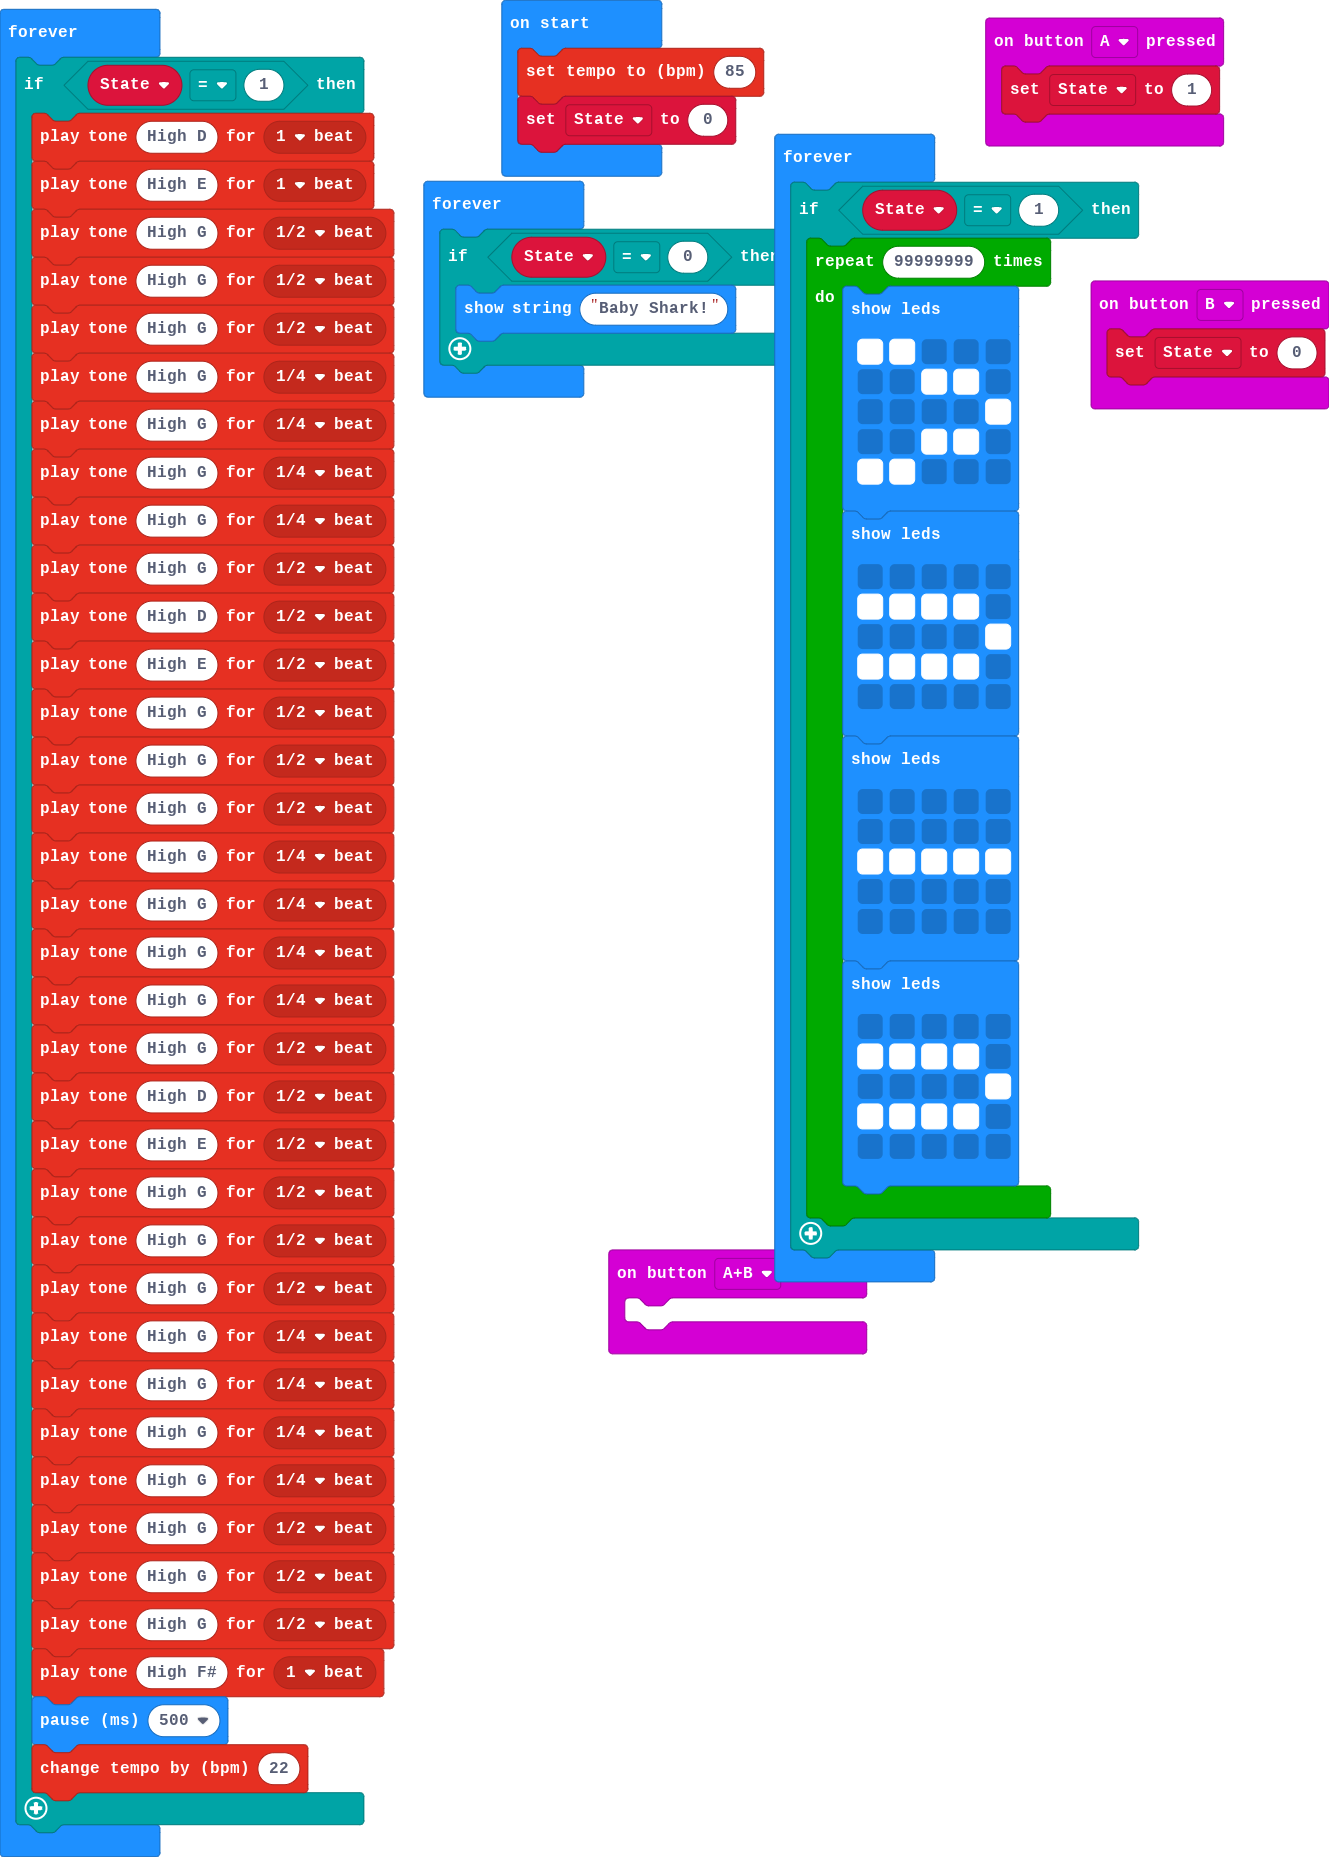
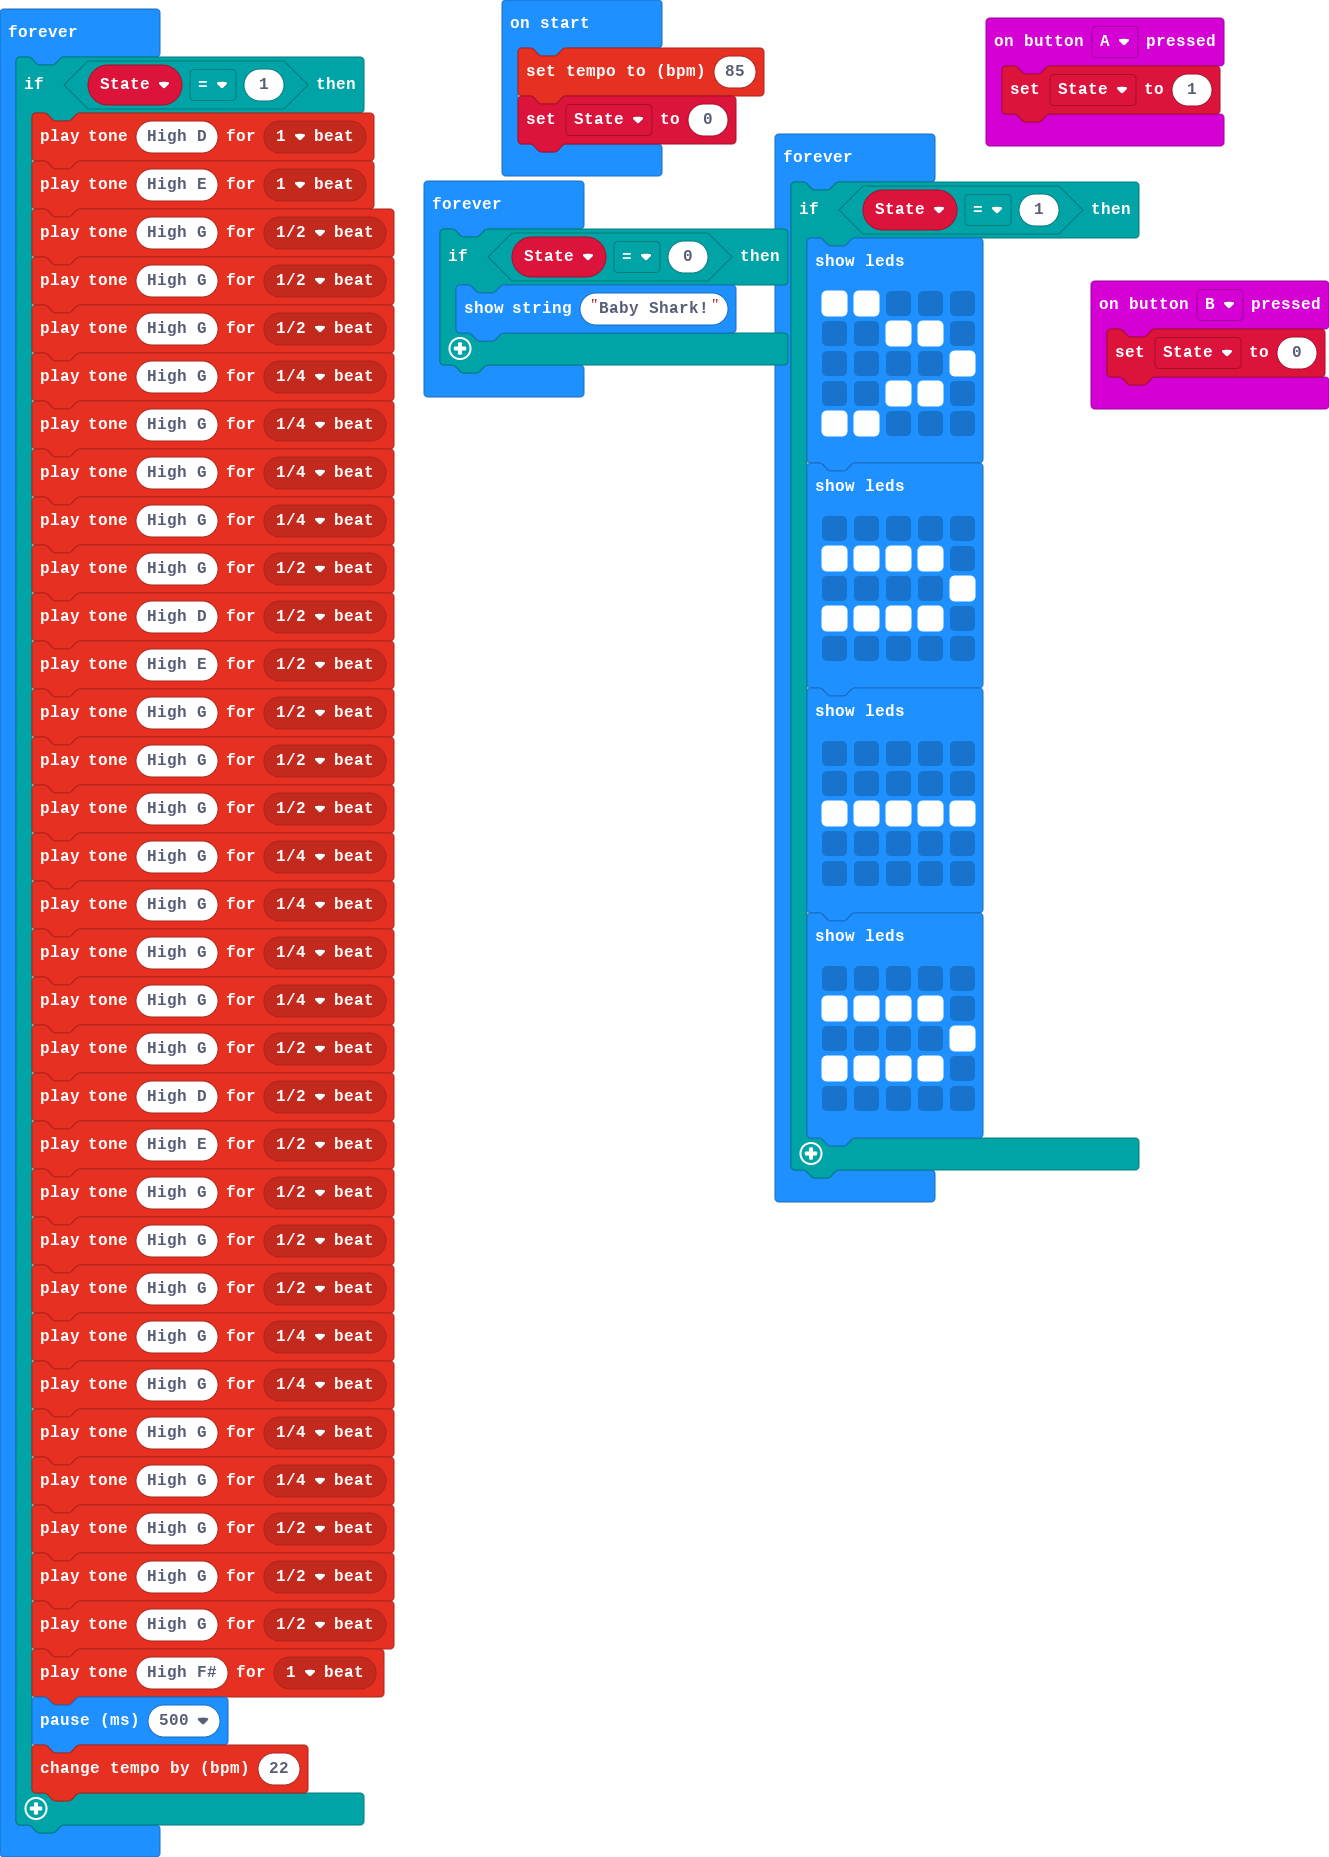
Removed repeat loop

Changed region(s): [[0.4319, 0.1249, 0.8638, 0.7496]]

diff --git a/main.ts b/main.ts
@@ -1,9 +1,6 @@
 input.onButtonPressed(Button.A, function () {
     State = 1
 })
-input.onButtonPressed(Button.AB, function () {
-	
-})
 input.onButtonPressed(Button.B, function () {
     State = 0
 })
@@ -51,36 +48,34 @@ basic.forever(function () {
 })
 basic.forever(function () {
     if (State == 1) {
-        for (let index = 0; index < 99999999; index++) {
-            basic.showLeds(`
-                # # . . .
-                . . # # .
-                . . . . #
-                . . # # .
-                # # . . .
-                `)
-            basic.showLeds(`
-                . . . . .
-                # # # # .
-                . . . . #
-                # # # # .
-                . . . . .
-                `)
-            basic.showLeds(`
-                . . . . .
-                . . . . .
-                # # # # #
-                . . . . .
-                . . . . .
-                `)
-            basic.showLeds(`
-                . . . . .
-                # # # # .
-                . . . . #
-                # # # # .
-                . . . . .
-                `)
-        }
+        basic.showLeds(`
+            # # . . .
+            . . # # .
+            . . . . #
+            . . # # .
+            # # . . .
+            `)
+        basic.showLeds(`
+            . . . . .
+            # # # # .
+            . . . . #
+            # # # # .
+            . . . . .
+            `)
+        basic.showLeds(`
+            . . . . .
+            . . . . .
+            # # # # #
+            . . . . .
+            . . . . .
+            `)
+        basic.showLeds(`
+            . . . . .
+            # # # # .
+            . . . . #
+            # # # # .
+            . . . . .
+            `)
     }
 })
 basic.forever(function () {
